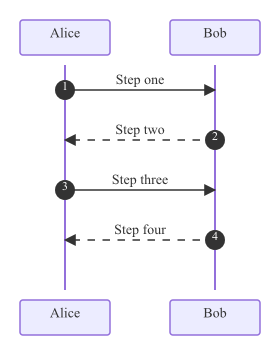
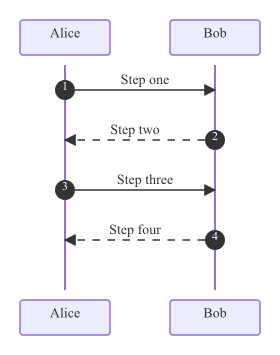
sequence: start arrow at autonumber badge edge (#136)
* sequence: start arrow at autonumber badge edge, not lifeline center

Arrow lines visibly pierced the autonumber circle badges in mmgo,
because the line started at the lifeline x and the badge centered
on the same x. mmdc starts the line one radius outboard so the
badge sits cleanly at the arrow's tail.

Offset lineFromX by autoNumberRadius in the message direction when
the badge is enabled and fromIdx != toIdx.

* fix(sequence/autonumber): clarify self-message scope, add regression test

Per PR review:
- Clarify the offset is intentionally skipped for self-messages
  (their loop anchors both endpoints to the lifeline x; offsetting
  would break the geometry).
- Add TestRenderAutoNumberOffsetsArrowFromBadge covering both
  left-to-right and right-to-left arrows, asserting line x1 lands
  at fromX +/- autoNumberRadius.

---------

diff --git a/pkg/renderer/sequence/renderer_test.go b/pkg/renderer/sequence/renderer_test.go
@@ -1053,6 +1053,51 @@ func TestRenderMultilineLabelsDoNotOverlap(t *testing.T) {
 	}
 }
 
+func TestRenderAutoNumberOffsetsArrowFromBadge(t *testing.T) {
+	tests := []struct {
+		name     string
+		fromID   string
+		toID     string
+		wantLeft bool // arrow goes left (from B to A)
+	}{
+		{"left-to-right", "A", "B", false},
+		{"right-to-left", "B", "A", true},
+	}
+	for _, tc := range tests {
+		t.Run(tc.name, func(t *testing.T) {
+			d := &diagram.SequenceDiagram{
+				AutoNumber: diagram.AutoNumber{Enabled: true, Start: 1, Step: 1},
+				Participants: []diagram.Participant{
+					{ID: "A", Kind: diagram.ParticipantKindParticipant, CreatedAtItem: -1, DestroyedAtItem: -1},
+					{ID: "B", Kind: diagram.ParticipantKindParticipant, CreatedAtItem: -1, DestroyedAtItem: -1},
+				},
+				Items: []diagram.SequenceItem{
+					diagram.NewMessageItem(diagram.Message{From: tc.fromID, To: tc.toID, Label: "msg", ArrowType: diagram.ArrowTypeSolid}),
+				},
+			}
+			out, err := Render(d, nil)
+			if err != nil {
+				t.Fatalf("Render: %v", err)
+			}
+			raw := string(out)
+			fromX := participantXForLabel(t, raw, tc.fromID)
+			lineRe := regexp.MustCompile(`<line x1="([\d.]+)"[^>]*style="stroke:#333`)
+			m := lineRe.FindStringSubmatch(raw)
+			if m == nil {
+				t.Fatal("did not find message line")
+			}
+			x1, _ := strconv.ParseFloat(m[1], 64)
+			expected := fromX + autoNumberRadius
+			if tc.wantLeft {
+				expected = fromX - autoNumberRadius
+			}
+			if math.Abs(x1-expected) > 0.5 {
+				t.Errorf("autonumber arrow x1=%.2f, want %.2f (fromX=%.2f, radius=%v)", x1, expected, fromX, autoNumberRadius)
+			}
+		})
+	}
+}
+
 func TestRenderRectWithLabelSuppressesBadge(t *testing.T) {
 	d := &diagram.SequenceDiagram{
 		Participants: []diagram.Participant{

diff --git a/pkg/renderer/sequence/messages.go b/pkg/renderer/sequence/messages.go
@@ -141,10 +141,25 @@ func (mr *messageRenderer) renderMessage(m diagram.Message) []any {
 	mr.msgNum += mr.autoNum.Step
 	var elems []any
 
+	// When an autonumber badge sits at the source endpoint of a
+	// straight (cross-participant) message, start the arrow line at
+	// the badge's edge (one radius along the message direction) so
+	// the line doesn't visibly pierce the circle — mmdc parity.
+	// Self-message loops anchor both ends on the lifeline so the
+	// offset would break the geometry; left as-is.
+	lineFromX := fromX
+	if mr.autoNum.Enabled && fromIdx != toIdx {
+		if toX > fromX {
+			lineFromX = fromX + autoNumberRadius
+		} else {
+			lineFromX = fromX - autoNumberRadius
+		}
+	}
+
 	if fromIdx == toIdx {
 		elems = append(elems, mr.renderSelfMessage(fromX, y, m)...)
 	} else {
-		elems = append(elems, mr.renderStraightMessage(fromX, toX, y, m)...)
+		elems = append(elems, mr.renderStraightMessage(lineFromX, toX, y, m)...)
 	}
 
 	if mr.autoNum.Enabled {
